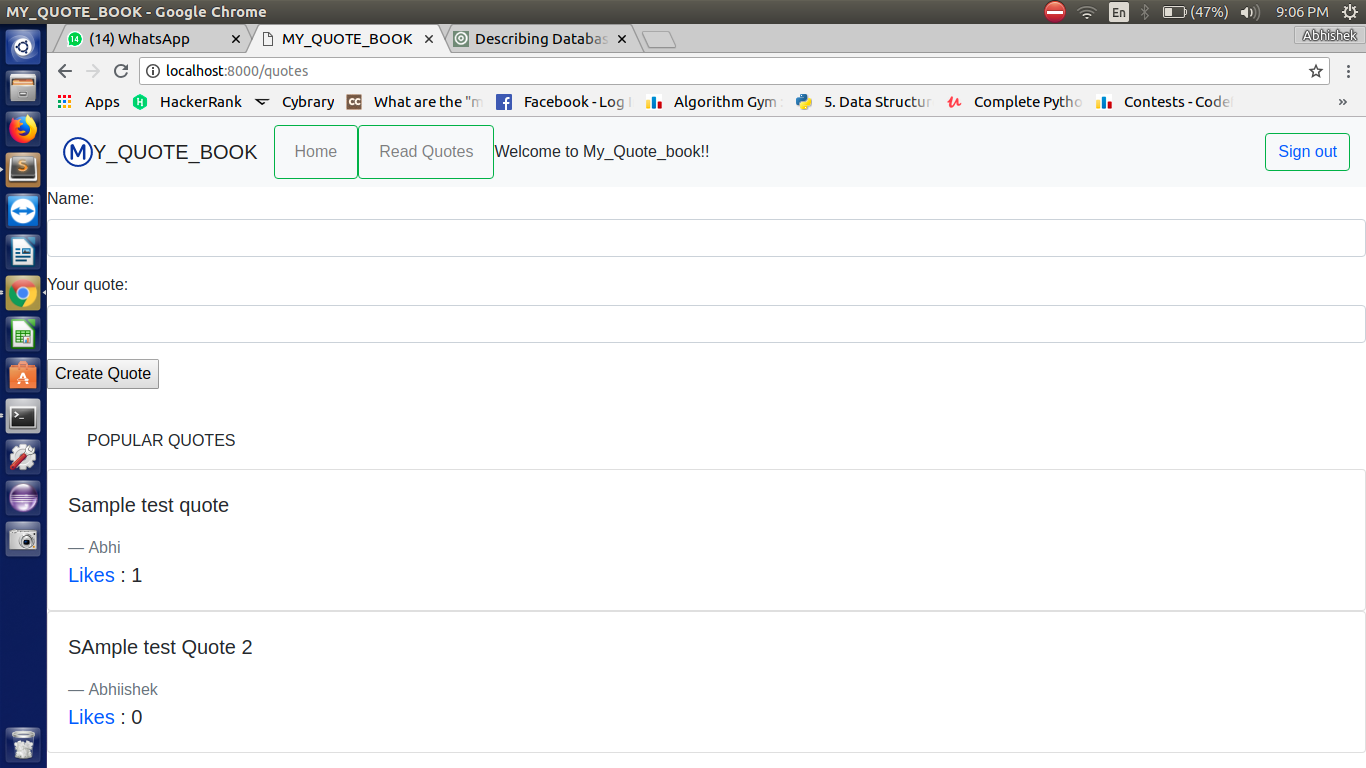
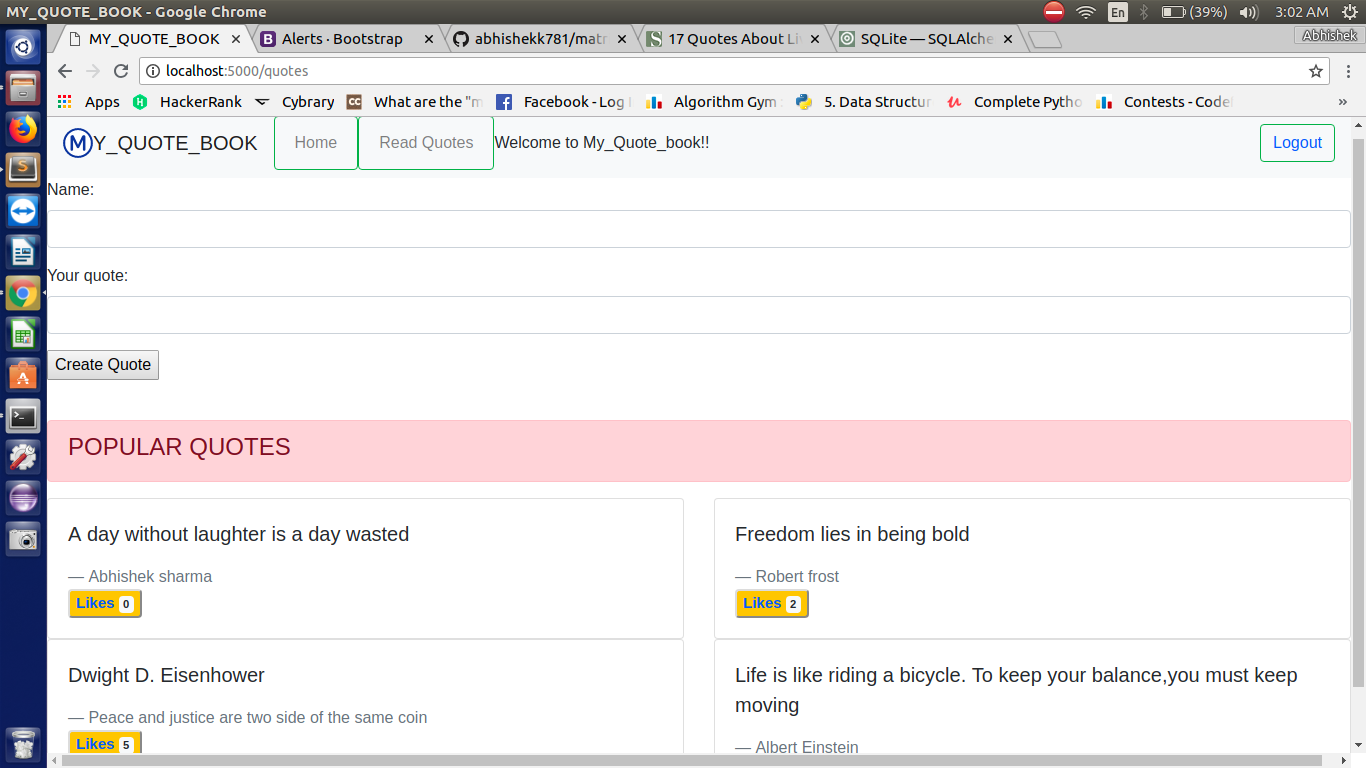
some changes in UI

diff --git a/templates/register.html b/templates/register.html
@@ -17,33 +17,35 @@
 		    <img src="http://www.clker.com/cliparts/a/3/9/8/1242252201564902387Metro-M.svg" width="30" height="30" class="d-inline-block align-top" alt="">Y_QUOTE_BOOK
 		  </a>
 		</nav>
-		<h1>CREATE YOUR ACCOUNT </h1>
+		<div class="alert alert-info" role="alert">
+			<h1>CREATE YOUR ACCOUNT </h1>
+		</div>
 		<form method="post">
-		<span class="form-group">
+		  <div class="container-fluid">
 		    <label for="firstName">First name:</label>
 		    <input name="firstName" type="text" class="form-control" id="email">
-		  </span>
-		  <div class="form-group">
+		  </div>
+		  <div class="container-fluid">
 		    <label for="lastName">Last name:</label>
 		    <input name="lastName" type="text" class="form-control" id="email">
 		  </div>
-		  <div class="form-group">
+		  <div class="container-fluid">
 		    <label for="email">Email address:</label>
 		    <input name="username" type="email" class="form-control" id="email">
 		  </div>
-		  <div class="form-group">
+		  <div class="container-fluid">
 		    <label for="pwd">Password:</label>
 		    <input name="password" type="password" class="form-control" id="pwd">
 		  </div>
-		  <div class="form-group">
+		  <div class="container-fluid">
 		    <label for="cnfPassword">confirm Password:</label>
 		    <input name="cnfPassword" type="password" class="form-control" id="pwd">
 		  </div>
-		  <div class="checkbox">
+		  <div class="checkbox container-fluid">
 		    <label><input type="checkbox"> Remember me</label>
 		  </div>
-		  <button type="submit">Register</button>
+		  <button type="submit" class="btn btn-primary">Register</button>
 		</form>
-		<img src={{image}} align="middle">
+		<img src={{image}} class="rounded mx-auto d-block" alt="...">
 	</body>
 </html>

diff --git a/templates/login.html b/templates/login.html
@@ -15,26 +15,21 @@
 		    <img src="http://www.clker.com/cliparts/a/3/9/8/1242252201564902387Metro-M.svg" width="30" height="30" class="d-inline-block align-top" alt="">Y_QUOTE_BOOK
 		  </a>
 		</nav>
-
-		<h1>SIGN IN</h1>
-
+		<div class="alert alert-info" role="alert">
+			<h1 align="center">LOGIN</h1>
+		</div>
 		<form method="post">
-		  <div class="form-group">
+		  <div class="container-fluid">
 		    <label for="exampleInputEmail1">Email address</label>
 		    <input name="username" type="email" class="form-control" id="exampleInputEmail1" aria-describedby="emailHelp" placeholder="Enter email">
 		    <small id="emailHelp" class="form-text text-muted">We'll never share your email with anyone else.</small>
 		  </div>
-		  <div class="form-group">
+		  <div class="container-fluid">
 		    <label for="exampleInputPassword1">Password</label>
 		    <input name="password" type="password" class="form-control" id="exampleInputPassword1" placeholder="Password">
 		  </div>
-		  <div class="form-group form-check">
-		    <input type="checkbox" class="form-check-input" id="exampleCheck1">
-		    <label class="form-check-label" for="exampleCheck1">Check me out</label>
-		  </div>
-		  <button type="submit" class="btn btn-primary">Submit</button>
+		  <button type="submit" class="btn btn-primary">Login</button>
 		</form>
-
-		<img src={{image}} align="middle">
+		<img src={{image}} class="rounded mx-auto d-block" alt="...">
 	</body>
 </html>

diff --git a/templates/display_quotes.html b/templates/display_quotes.html
@@ -28,23 +28,32 @@
 		        Welcome to My_Quote_book!! <span class="sr-only">(current)</span></a>
 		      </li>
 		    </ul>
-		    <form class="form-inline my-2 my-lg-0">
-		      <button class="btn btn-outline-success my-2 my-sm-0" type="submit"><a href="/login">Sign out</a></button>
-		    </form>
+		    <button class="btn btn-outline-success my-2 my-sm-0" type="submit"><a href="/login">Logout</a></button>
 		  </div>
 		</nav>
 		<br/>
-		<h> <ul><div class="logo_colour"> POPULAR QUOTES </div> </ul> </h1>
+		<div class="alert alert-danger" role="alert">
+  			<h4> POPULAR QUOTES </h4>
+		</div>
+
+		<div class="row">
 		{% for r in dis %}
+		<div class="col-sm-6">
 		<div class="card">
 		  <div class="card-body">
 		    <blockquote class="blockquote mb-0">
 		      <p>{{r.content}}</p>
 		      <footer class="blockquote-footer">{{r.name}}<cite title="Source Title"></cite></footer>
-		      <div> <a href="/quotes">Likes</a> : {{r.likes}} </div>
+		      <form method="post">
+		      <button type="button" class="badge badge-warning">
+				  <a href="/quotes">Likes</a> <span class="badge badge-light">{{r.likes}}</span>
+			  </button>
+		      </form>
 		    </blockquote>
 		  </div>
 		 </div>
+		 </div>
 		{% endfor %}
+		</div>
 	</body>
 </html>

diff --git a/templates/quotes.html b/templates/quotes.html
@@ -29,7 +29,7 @@
 		      </li>
 		    </ul>
 		    <form class="form-inline my-2 my-lg-0">
-		      <button class="btn btn-outline-success my-2 my-sm-0" type="submit"><a href="/login">Sign out</a></button>
+		      <button class="btn btn-outline-success my-2 my-sm-0" type="submit"><a href="/login">Logout</a></button>
 		    </form>
 		  </div>
 		</nav>
@@ -47,17 +47,25 @@
 		  <button type="submit">Create Quote</button>
 		</form>
 		<br/>
-		<h> <ul><div class="logo_colour"> POPULAR QUOTES </div> </ul> </h1>
+		<div class="alert alert-danger" role="alert">
+  			<h4> POPULAR QUOTES </h4>
+		</div>
+		<div class="row">
 		{% for r in dis %}
+		<div class="col-sm-6">
 		<div class="card">
 		  <div class="card-body">
 		    <blockquote class="blockquote mb-0">
 		      <p>{{ r.content }}</p>
 		      <footer class="blockquote-footer">{{ r.name }}<cite title="Source Title"></cite></footer>
-		      <div> <a href="/quotes">Likes</a> : {{r.likes}} </div>
+		      <button type="button" class="badge badge-warning">
+				  <a href="/quotes">Likes</a> <span class="badge badge-light">{{r.likes}}</span>
+			  </button>
 		    </blockquote>
 		  </div>
 		 </div>
+		 </div>
 		{% endfor %}
+		</div>
 	</body>
 </html>

diff --git a/templates/index.html b/templates/index.html
@@ -33,6 +33,23 @@
       </div>
     </div>
   </div>
-  <img align="middle" src={{image}} >
+  <div class="row">
+    {% for r in dis %}
+    <div class="col-sm-6">
+    <div class="card">
+      <div class="card-body">
+        <blockquote class="blockquote mb-0">
+          <p>{{ r.content }}</p>
+          <footer class="blockquote-footer">{{ r.name }}<cite title="Source Title"></cite></footer>
+          <button type="button" class="badge badge-warning">
+          <a href="/quotes">Likes</a> <span class="badge badge-light">{{r.likes}}</span>
+        </button>
+        </blockquote>
+      </div>
+     </div>
+     </div>
+    {% endfor %}
+    </div>
+  <img src={{image}} class="rounded mx-auto d-block" alt="...">
 </body>
 </html>

diff --git a/templates/contact.html b/templates/contact.html
@@ -47,6 +47,6 @@
         <p><br /><br />NOTE: A contact form such as this would require some way of emailing the input to an email address.</p>
       </div>
   </div>
-  <img src={{image}} align="middle">
+  <img src={{image}} class="rounded mx-auto d-block" alt="...">
 </body>
 </html>

diff --git a/app.py b/app.py
@@ -32,8 +32,9 @@ class Quotes(db.Model):
 		return "Quotes('{}','{}','{}')".format(self.name, self.content, self.likes)
 
 @app.route('/')
-def hello():
-    return render_template("index.html",image=useful_links[random.randint(1,8)])
+def home():
+	result = Quotes.query.all()
+	return render_template("index.html", image=useful_links[random.randint(1,8)], dis=result)
 
 @app.route('/login',methods=['GET','POST'])
 def login():
@@ -84,14 +85,15 @@ def quotes():
 		db.session.commit()
 		return redirect(url_for('quotes'))
 
-@app.route('/read_quotes')
+@app.route('/read_quotes',methods=['GET','POST'])
 def read_quotes():
 	result = Quotes.query.all()
 	return render_template("display_quotes.html",dis=result)
+
 
 @app.route('/contact')
 def contact():
 	return render_template("contact.html",image=useful_links[random.randint(1,8)])
 
 if __name__ == '__main__':
-    app.run(host='localhost',port=8000,debug=True)
+    app.run(host='localhost',port=5000,debug=True)
